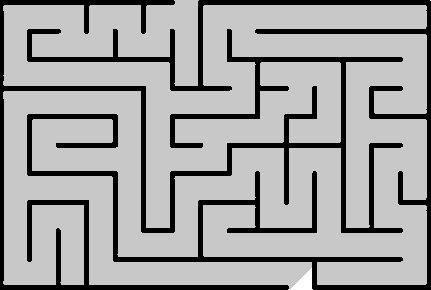
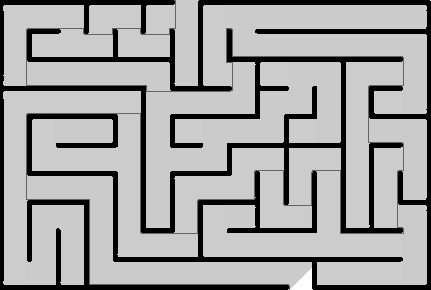
Added solution trace method after solving maze

diff --git a/main.cpp b/main.cpp
@@ -3,18 +3,25 @@
 #include <utility>
 
 #include "Convert.hpp"
-#include "MazePixel.hpp"
 
-const int DEADEND = 100;
+const int SOLUTION = 100;
 const int VISITED = 200;
 //const int WALL = 0;
 const int AVAILABLE = 255;
 
-MazePixel* findEntrance(Mat);
+const int ABOVE = 1;
+const int BELOW = 2;
+const int LEFT = 3;
+const int RIGHT = 4;
+
+const int NUM_ADJACENT = 4;
+
+void findEntrance(Mat, pair<int, int>&);
 void getAdjacent(Mat, int, int, int[]);
+void traceSolution(Mat, int, int);
 
 int main() {
-  string mazeName = "SampleMaze1.png";
+  string mazeName = "SampleMaze4.png";
 
   Mat maze = convert(mazeName);
   if (maze.empty()) {
@@ -22,64 +29,72 @@ int main() {
     return -1;
   }
   
-  queue<MazePixel*> pixelQueue;
-  int row, col, queueSize;
-  int adjacent[4];
-  MazePixel* pixel = findEntrance(maze);
-  if (!pixel) {
+  queue<pair<int, int>> pixelQueue;
+  int row, col;
+  int adjacent[NUM_ADJACENT];
+  pair<int, int> pixel;
+  findEntrance(maze, pixel);
+  if (pixel.first == -1) {
     cout << "Maze entrance not found in top row or left column!" << endl;
     return -1;
   }
   pixelQueue.push(pixel); 
-  maze.data[maze.cols*pixel->getRow()+ pixel->getCol()] = VISITED;
+  maze.data[maze.cols*(pixel.first) + pixel.second] = VISITED;
   while (!pixelQueue.empty()) {
     pixel = pixelQueue.front();
     pixelQueue.pop();
-    row = pixel->getRow();
-    col = pixel->getCol();
+    row = pixel.first;
+    col = pixel.second;
 
-    if (row == maze.rows - 1) {
+    if (row == maze.rows - 1 || col == maze.cols - 1) {
       break;
     }
 
-    //queueSize = pixelQueue.size();
-    
     getAdjacent(maze, row, col, adjacent);
     if (adjacent[0] == AVAILABLE) {
-      pixelQueue.push(new MazePixel(row - 1, col, pixel));
-      maze.data[maze.cols*(row - 1) + col] = VISITED;
+      pixelQueue.push(make_pair(row - 1, col));
+      maze.data[maze.cols*(row - 1) + col] = VISITED + BELOW;
     }
     if (adjacent[1] == AVAILABLE) {
-      pixelQueue.push(new MazePixel(row + 1, col, pixel));
-      maze.data[maze.cols*(row + 1) + col] = VISITED;
+      pixelQueue.push(make_pair(row + 1, col));
+      maze.data[maze.cols*(row + 1) + col] = VISITED + ABOVE;
     }
     if (adjacent[2] == AVAILABLE) {
-      pixelQueue.push(new MazePixel(row, col - 1, pixel));
-      maze.data[maze.cols*row + (col - 1)] = VISITED;
+      pixelQueue.push(make_pair(row, col - 1));
+      maze.data[maze.cols*row + (col - 1)] = VISITED + RIGHT;
     }
     if (adjacent[3] == AVAILABLE) {
-      pixelQueue.push(new MazePixel(row, col + 1, pixel));
-      maze.data[maze.cols*row + (col + 1)] = VISITED;
+      pixelQueue.push(make_pair(row, col + 1)); 
+      maze.data[maze.cols*row + (col + 1)] = VISITED + LEFT;
     }
-
-    /*if (queueSize == pixelQueue.size()) {
-      markDead(maze, pixel);
-    }*/
-    delete pixel;
   }
 
+  traceSolution(maze, row, col);
   cv::imwrite(MAZEPATH + "Cropped" + mazeName, maze);
   return 0;
 }
 
-/*void markDead(Mat maze, MazePixel* pixel) {
-  int row = pixel->getRow();
-  int col = pixel->getCol();
-  int prevRow = pixel->getPrevRow();
-  int prevCol = pixel->getPrevCol();
-  maze.data[maze.cols*row + col] = DEADEND;
-  getAdjacent(pixel, above, below, left, right);
-}*/
+void findEntrance(Mat maze, pair<int, int>& pixel) {
+  int data;
+  for (int c = 0; c < maze.cols; ++c) {
+    data = (int)maze.data[c];
+    if (data == AVAILABLE) {
+      //Entrance found in top row
+      pixel = make_pair(0, c);
+      return;
+    }
+  }
+  for (int r = 0; r < maze.rows; ++r) {
+    data = (int)maze.data[maze.cols * r];
+    if (data == AVAILABLE) {
+      //Entrance found in left col
+      pixel = make_pair(r, 0);
+      return;
+    }
+  }
+  pixel = make_pair(-1, -1);
+  return;
+}
 
 void getAdjacent(Mat maze, int row, int col, int adjacent[]) {
   adjacent[0] = (row > 0)? (int)maze.data[maze.cols * (row - 1) + col] : 0;
@@ -88,21 +103,20 @@ void getAdjacent(Mat maze, int row, int col, int adjacent[]) {
   adjacent[3] = (col < maze.cols - 1)? (int)maze.data[maze.cols * row + (col + 1)] : 0;
 }
 
-MazePixel* findEntrance(Mat maze) {
-  int data;
-  for (int c = 0; c < maze.cols; ++c) {
-    data = (int)maze.data[c];
-    if (data == AVAILABLE) {
-      //Entrance found in top row
-      return new MazePixel(0, c);
+void traceSolution(Mat maze, int row, int col) {
+  //Tail recursive versions of this method will lead to stack overflow
+  int prev;
+  do {
+    prev = (int)maze.data[maze.cols*row + col] - VISITED;
+    maze.data[maze.cols*row + col] = SOLUTION;
+    if (prev == ABOVE) {
+      --row;
+    } else if (prev == BELOW) {
+      ++row;
+    } else if (prev == LEFT) {
+      --col;
+    } else if (prev == RIGHT) {
+      ++col;
     }
-  }
-  for (int r = 0; r < maze.rows; ++r) {
-    data = (int)maze.data[maze.cols * r];
-    if (data == AVAILABLE) {
-      //Entrance found in left col
-      return new MazePixel(r, 0);
-    }
-  }
-  return NULL;
+  } while (prev != 0);
 }
